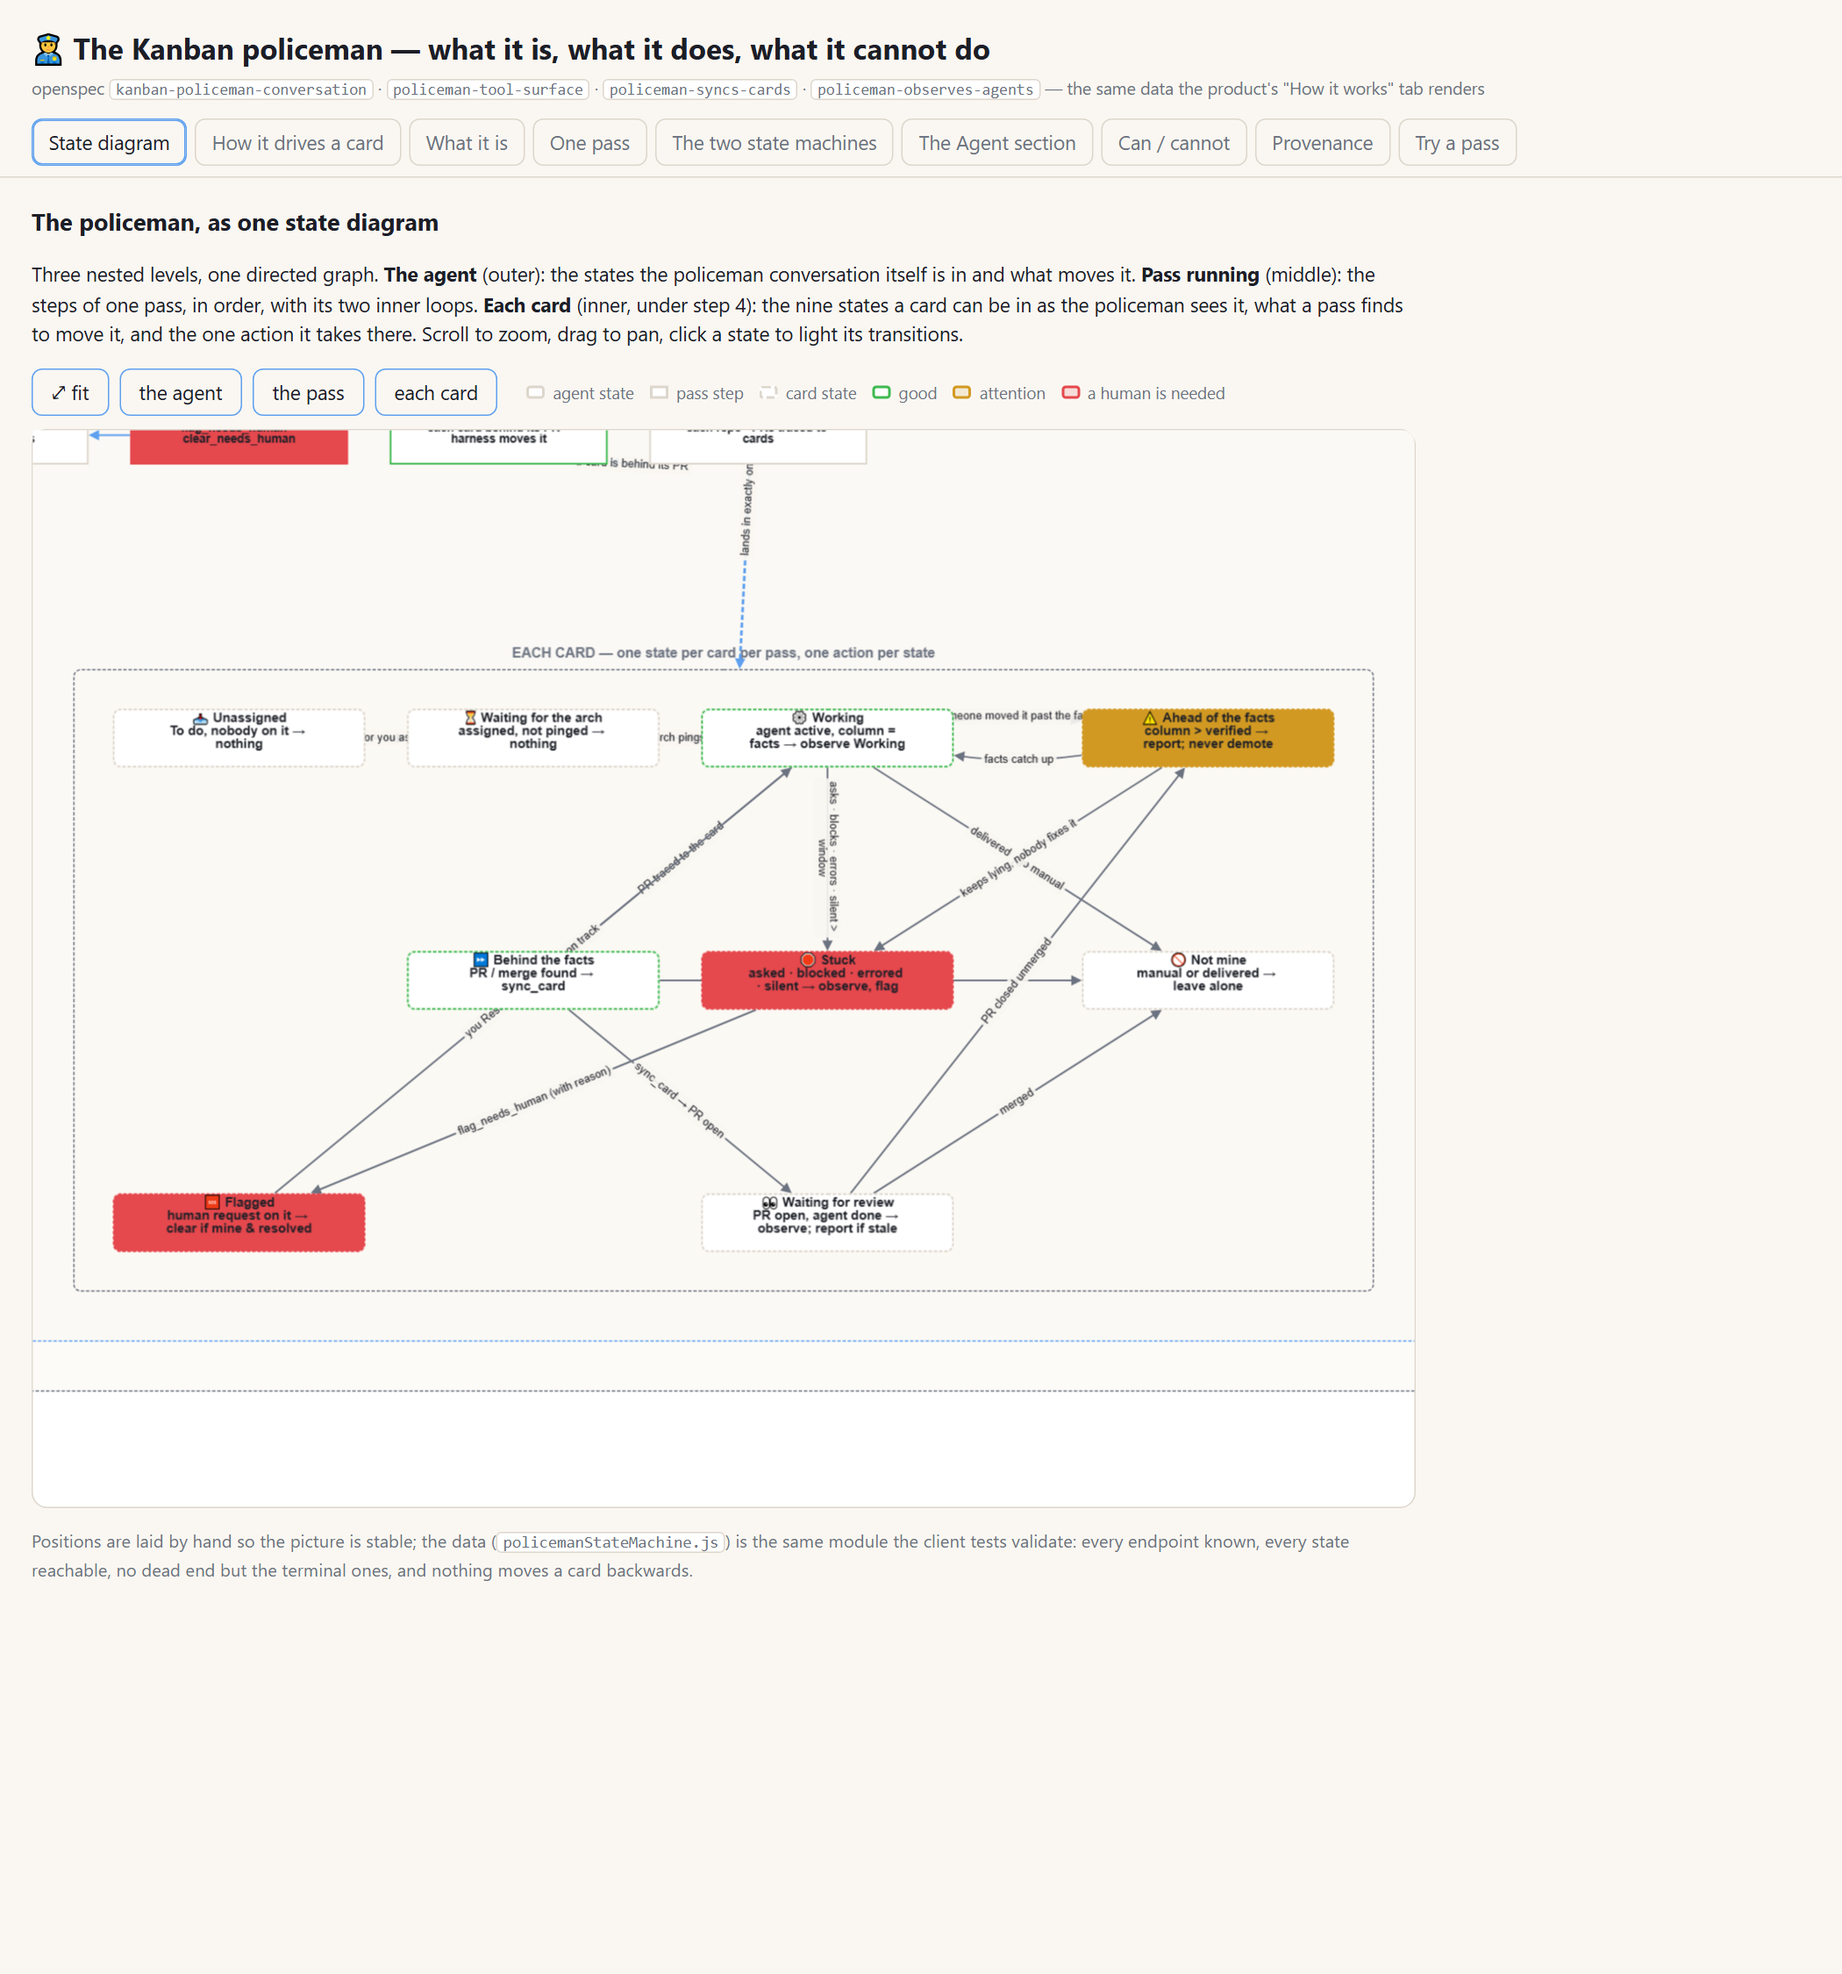
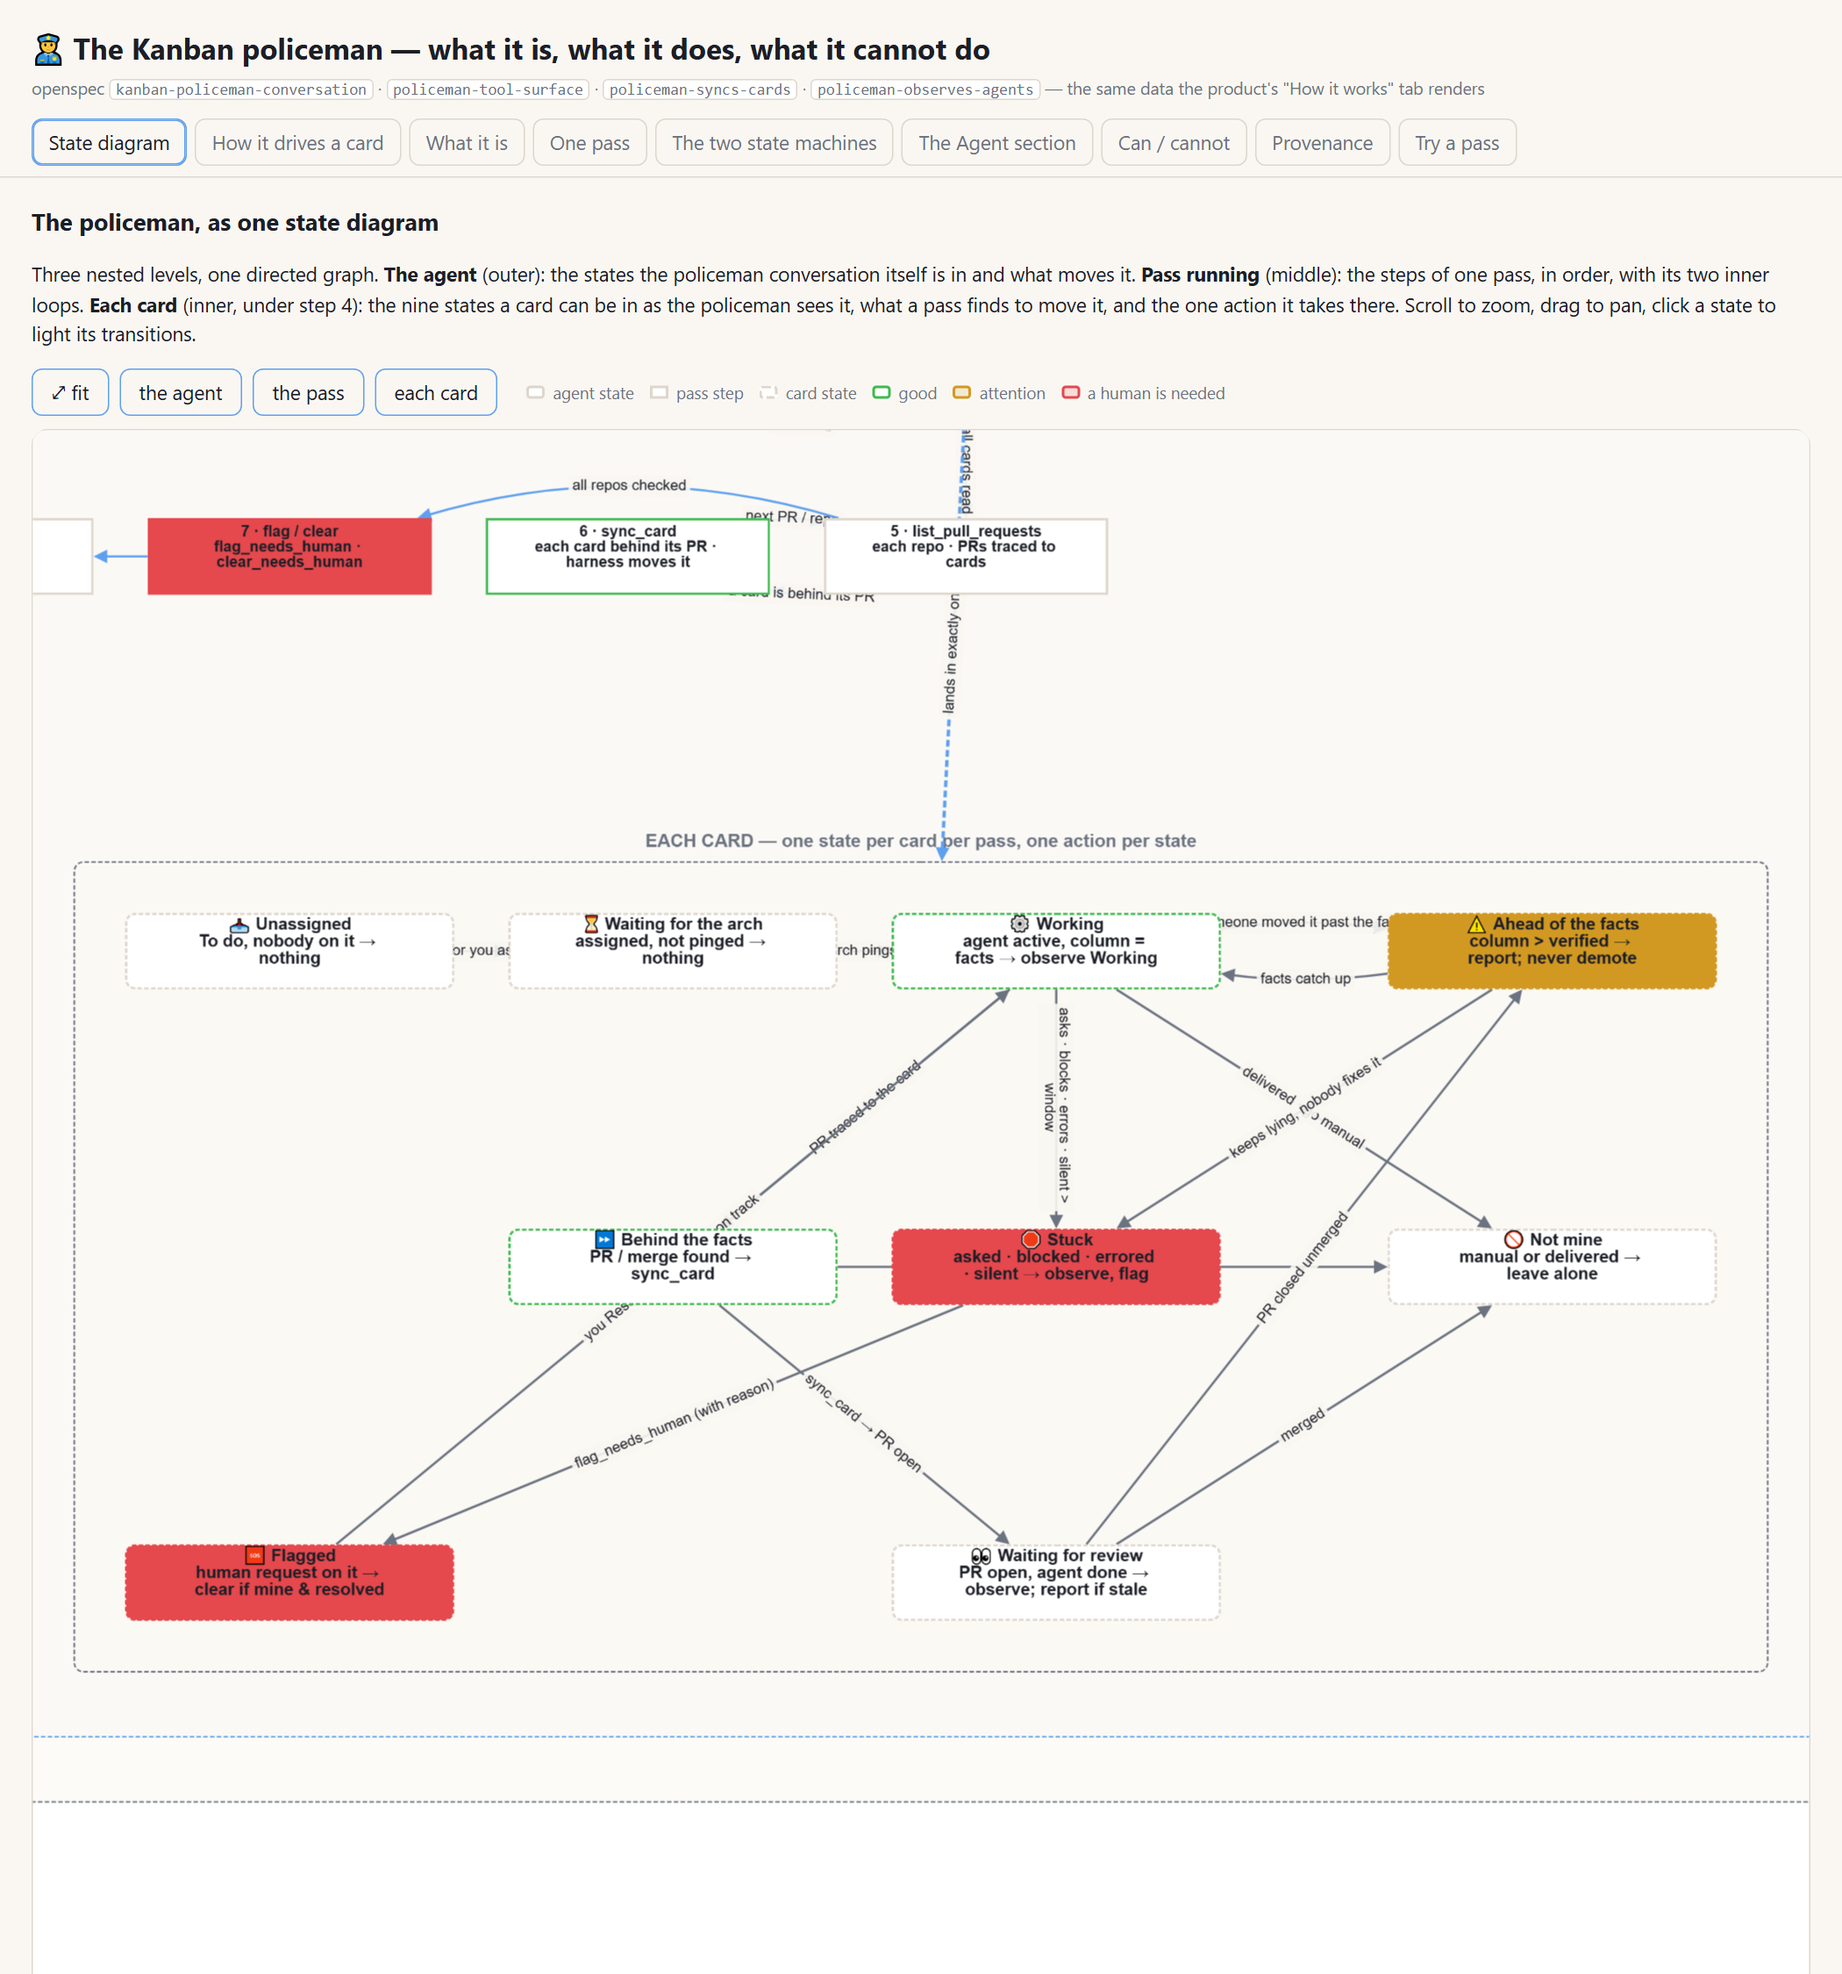
understanding app: the state diagram takes the full width and viewport height; refit on resize

diff --git a/understanding-app/app.css b/understanding-app/app.css
@@ -13,7 +13,8 @@ code { font-family: ui-monospace, Consolas, monospace; font-size: 0.92em; backgr
 .tabs { display: flex; flex-wrap: wrap; gap: 6px; }
 .tab { background: transparent; border: 1px solid var(--border); color: var(--muted); border-radius: 8px; padding: 6px 12px; font: inherit; cursor: pointer; }
 .tab.is-on { color: var(--text); border-color: var(--accent); box-shadow: inset 0 0 0 1px var(--accent); }
-main { padding: 20px 24px 40px; max-width: 1100px; }
+main { padding: 20px 24px 40px; }
+.view:not([data-view="machine"]) { max-width: 1100px; }
 .view { display: none; } .view.is-on { display: block; }
 .note { color: var(--muted); font-size: 13.5px; }
 .btn { background: transparent; border: 1px solid var(--accent); color: var(--text); border-radius: 8px; padding: 6px 14px; font: inherit; cursor: pointer; }
@@ -30,7 +31,7 @@ main { padding: 20px 24px 40px; max-width: 1100px; }
 .pd__state--ok rect { stroke: var(--green); } .pd__state--warn rect { stroke: var(--amber); fill: rgba(210,153,34,.08); } .pd__state--bad rect { stroke: var(--red); fill: rgba(229,72,77,.08); } .pd__state--plain rect { stroke-dasharray: 4 3; }
 .pd__label { font-size: 14px; font-weight: 700; fill: var(--text); } .pd__sub { font-size: 11px; fill: var(--muted); }
 .pd__edge path { fill: none; stroke: var(--muted); stroke-width: 1.4; } .pd__arrowhead { fill: var(--muted); }
-.cy { width: 100%; height: 820px; border: 1px solid var(--border); border-radius: 12px; background: var(--surface); }
+.cy { width: 100%; height: calc(100vh - 250px); min-height: 640px; border: 1px solid var(--border); border-radius: 12px; background: var(--surface); }
 .cybar { display: flex; flex-wrap: wrap; align-items: center; gap: 8px; margin: 10px 0; }
 .legend { color: var(--muted); font-size: 12.5px; display: inline-flex; align-items: center; gap: 6px; flex-wrap: wrap; margin-left: 8px; }
 .sw { display: inline-block; width: 14px; height: 10px; border: 2px solid var(--border); border-radius: 3px; background: var(--surface); margin-left: 6px; }

diff --git a/understanding-app/app.js b/understanding-app/app.js
@@ -73,6 +73,7 @@ $('#cy-fit').addEventListener('click', () => cy.animate({ fit: { eles: cy.elemen
 $('#cy-agent').addEventListener('click', () => focus('node[kind="state"], node#pass'));
 $('#cy-pass').addEventListener('click', () => focus('node#pass'));
 $('#cy-cards').addEventListener('click', () => focus('node#cards'));
+window.addEventListener('resize', () => { cy.resize(); cy.fit(undefined, 30); });
 // The tab is hidden until shown: cytoscape needs a resize + fit once it becomes visible.
 document.querySelector('[data-view="machine"]').addEventListener('click', () => setTimeout(() => { cy.resize(); cy.fit(undefined, 30); }, 0));
 
